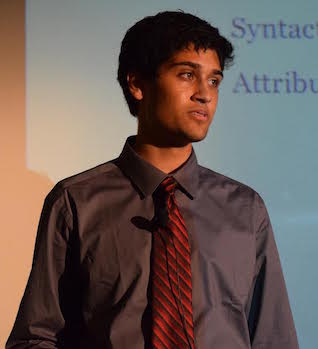
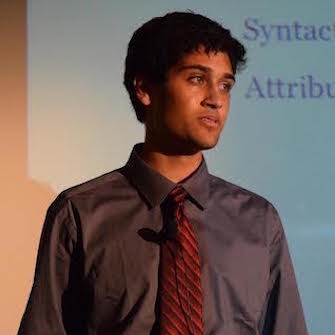
asdfasdf

Changed region(s): [[0.0, 0.0299, 1.0, 1.0], [0.8208, 0.0597, 0.9906, 0.1194]]

diff --git a/public_html/index.html b/public_html/index.html
@@ -81,7 +81,7 @@
 								</header>
 								<ul class="statistics">
                                                                     <li>
-                                                                        <span class="image"><img src="images/pic01.jpg" alt="" /></span>
+                                                                        <span class="image"><img src="images/akashsinghal.jpg" alt="" /></span>
                                                                     </li>
                                                                     <li>
                                                                         <span class = "image"><img src="images/harshayugirase.jpg" alt="" /></span>
